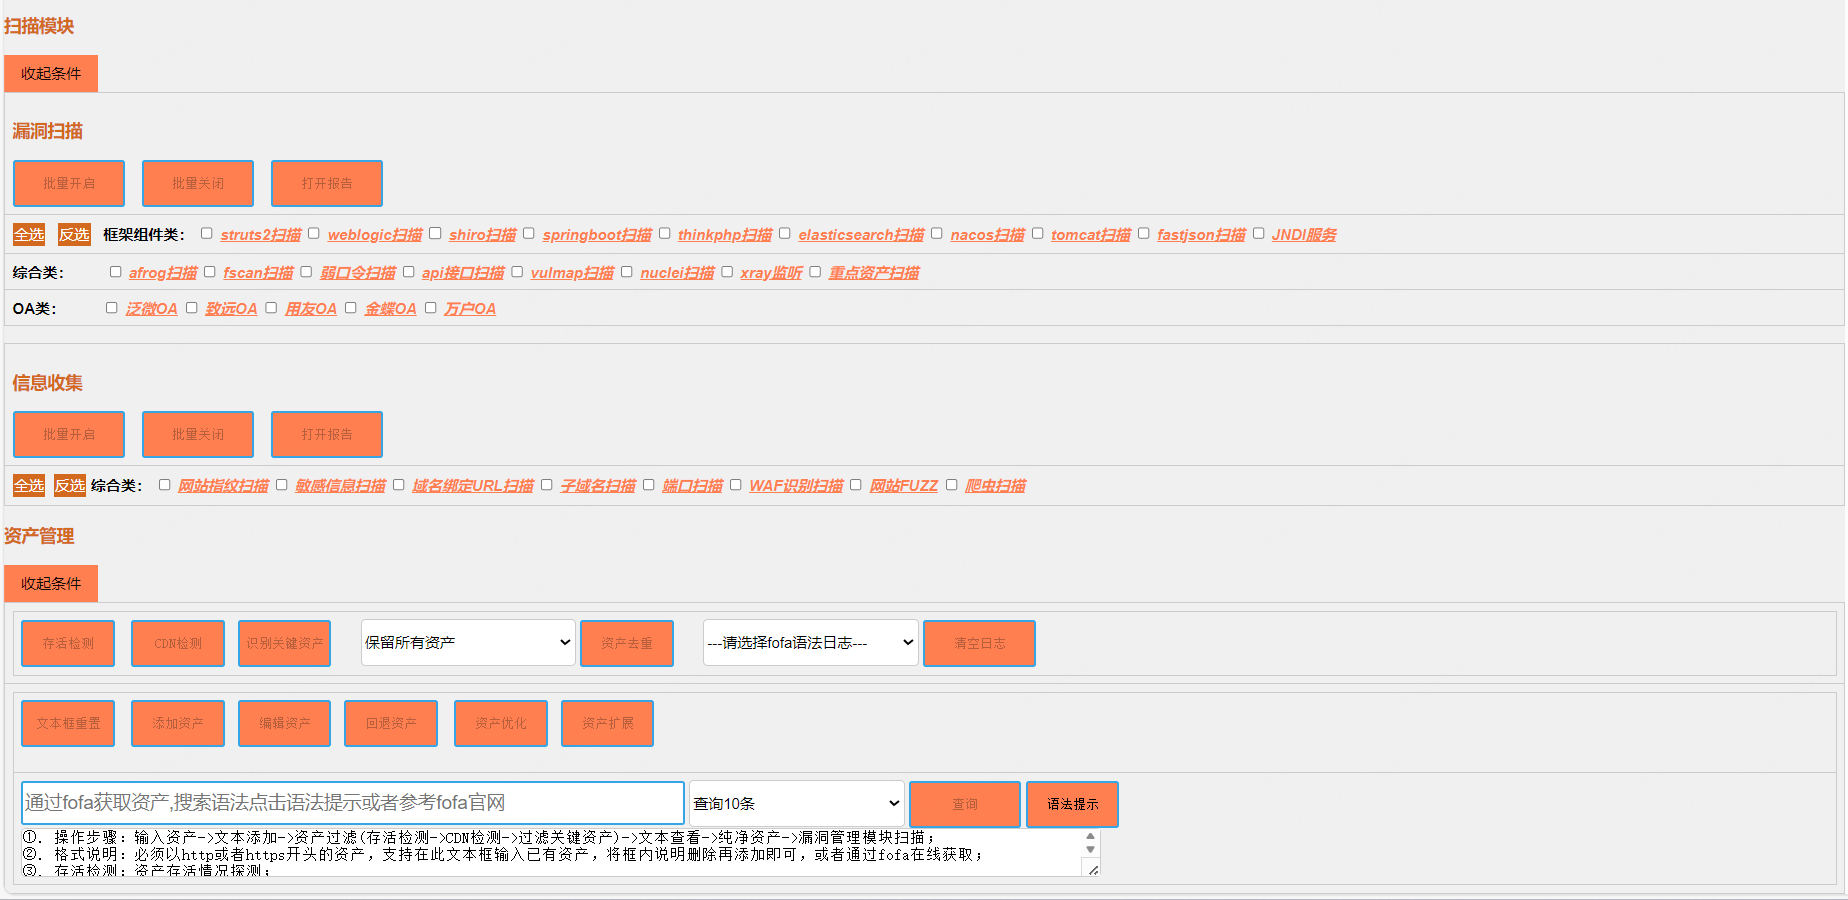
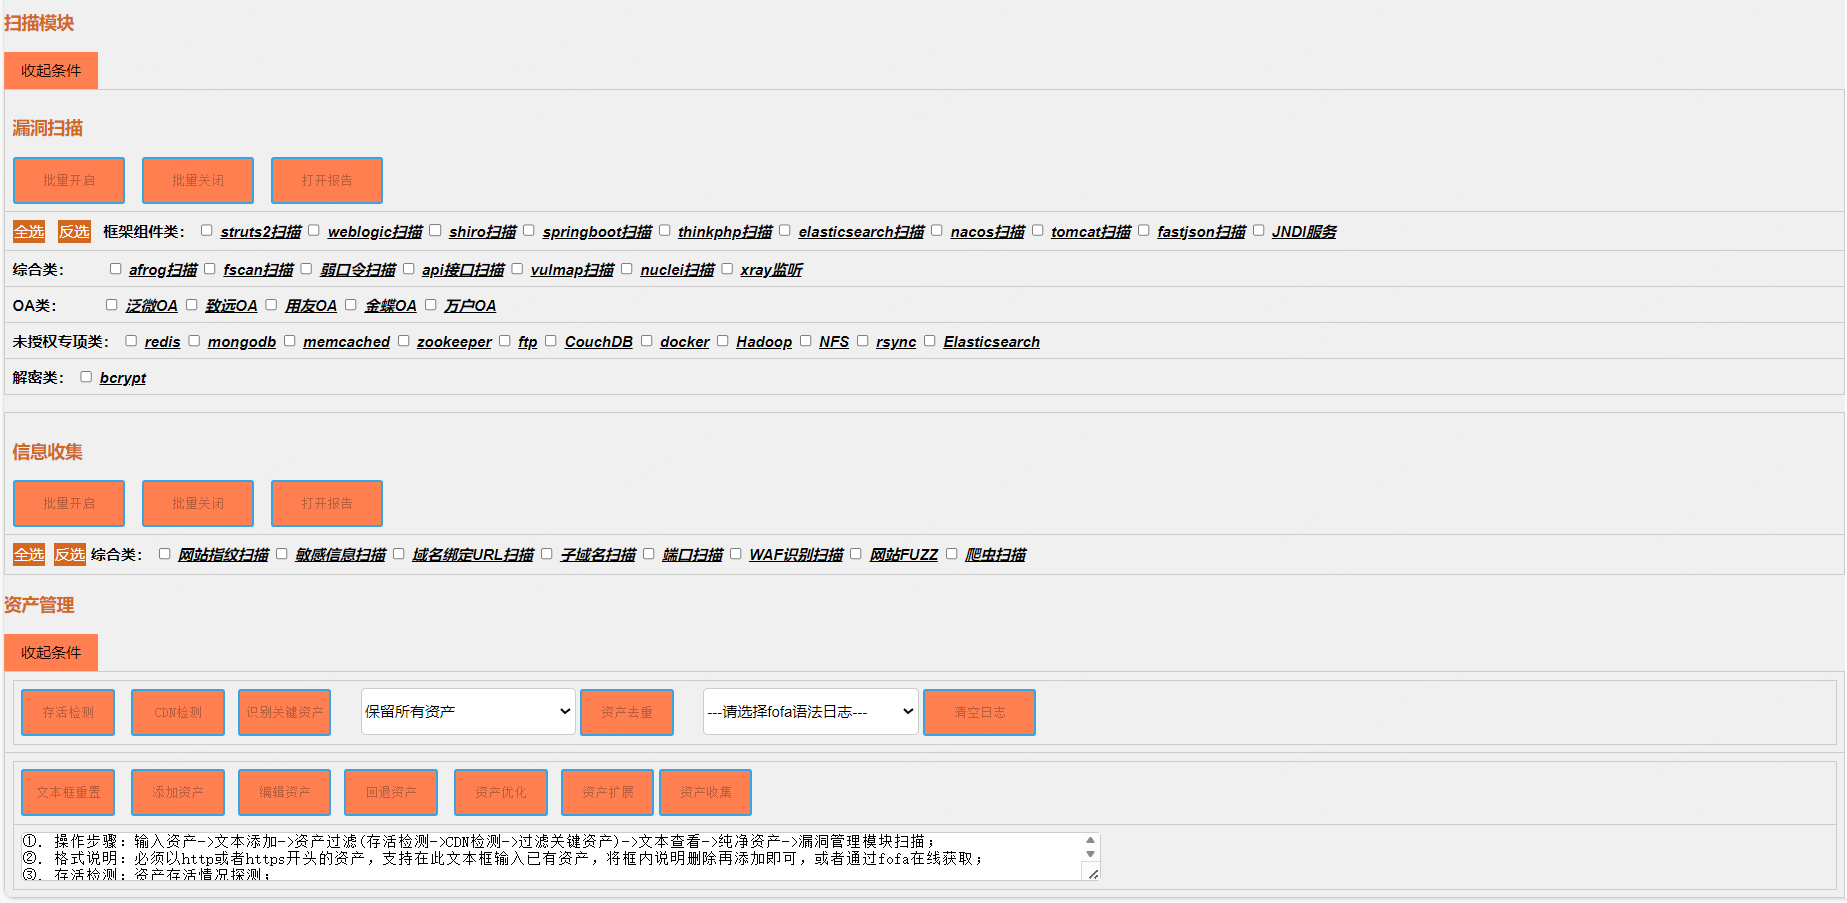
系统优化

diff --git a/templates/index.html b/templates/index.html
@@ -391,40 +391,16 @@
 										&nbsp;&nbsp;
 										<input type="button" id="button26" value="资产优化" onclick="asssets_jiansuo()"
 											disabled>&nbsp;&nbsp;
-										<!-- <input type="button" id="button27" value="资产扩展" onclick="assets_extend_func()"
-											disabled> -->
 
 										<input type="button" id="button27" value="资产扩展" onclick="openassetjiancefunc()"
 											disabled>
+
+										<input type="button" value="资产收集" onclick="openassetcollectfunc()" id="button83"
+											disabled>
 									</td>
 								</tr>
-
-
 								<tr>
 									<td>
-										<input type="text" placeholder="通过fofa获取资产,搜索语法点击语法提示或者参考fofa官网"
-											id="inputfofaid" class="my-input-text" />
-										<select name="num_fofa">
-											<option value="10">查询10条</option>
-											<option value="100">查询100条</option>
-											<option value="1000">查询1000条</option>
-											<option value="10000">查询10000条</option>
-										</select>
-										<input type="submit" value="查询" onclick="fofa_search_assets_func()"
-											id="button83" disabled>
-
-										<input type="button" value="语法提示" onclick="fofayufa()">&nbsp;&nbsp;
-										<span id="routestatus1" style="color: greenyellow;"
-											onmouseenter="yincangtishifun()"></span>
-										<span id="routestatus2" style="color: red;"
-											onmouseenter="yincangtishifun()"></span>
-
-										<span id="routestatus3" style="color: lightblue;"></span>
-										<br>
-										<input type="text" placeholder="输入https://test.com/pic.png,计算icon_hash" id="hashurl"
-											class="my-input-text" />
-										<input type="submit" value="计算" onclick="fofahashfunc()">
-										<br>
 										<textarea id="myTextarea">
 ①. 操作步骤：输入资产->文本添加->资产过滤(存活检测->CDN检测->过滤关键资产)->文本查看->纯净资产->漏洞管理模块扫描；
 ②. 格式说明：必须以http或者https开头的资产，支持在此文本框输入已有资产，将框内说明删除再添加即可，或者通过fofa在线获取；

diff --git a/templates/tanchuang.html b/templates/tanchuang.html
@@ -102,6 +102,32 @@
     </div>
 </div>
 
+<!-- 资产收集 -->
+<div id="myModa10" class="modal8">
+    <!-- 弹窗内容 -->
+    <div class="modal-content8">
+        <span class="close8" onclick="closevulnscan9()">&times;</span>
+        <h3>通过fofa收集资产：</h3>
+        <input type="text" placeholder="fofa语法" id="inputfofaid" class="my-input-text2" />
+        <select name="num_fofa" class="my-select-text2">
+            <option value="10">查询10条</option>
+            <option value="100">查询100条</option>
+            <option value="1000">查询1000条</option>
+            <option value="10000">查询10000条</option>
+        </select>
+        <input type="submit" value="查询" onclick="fofa_search_assets_func()">
+
+        <input type="button" value="语法提示" onclick="fofayufa()">&nbsp;&nbsp;
+        <span id="routestatus1" style="color:lawngreen" onmouseenter="yincangtishifun()"></span>
+        <span id="routestatus2" style="color: red;" onmouseenter="yincangtishifun()"></span>
+
+        <span id="routestatus3" style="color: lightblue;"></span>
+        <br>
+        <input type="text" placeholder="网站图标地址" id="hashurl" class="my-input-text2" />
+        <input type="submit" value="计算" onclick="fofahashfunc()">
+    </div>
+</div>
+
 
 
 <!-- 删除日志确认页面 -->

diff --git a/static/js/common.js b/static/js/common.js
@@ -2217,6 +2217,17 @@ function closevulnscan8() {
 
 }
 
+// 打开资产收集弹窗
+function openassetcollectfunc() {
+    var myModa10 = document.getElementById("myModa10");
+    myModa10.style.display = "block";
+}
+function closevulnscan9() {
+    var myModa10 = document.getElementById("myModa10");
+    myModa10.style.display = "none";
+
+}
+
 // 通过关键字检索资产
 function assets_key_jiansuo() {
     var myinputid = document.getElementById("my-input-id").value;
@@ -2411,8 +2422,8 @@ function stopgendictreportfunc() {
 
 
 // 网站导航模块
- // 谷歌语法
- function GoogledisplayText() {
+// 谷歌语法
+function GoogledisplayText() {
     // 获取输入框的值
     var GoogleinputText = document.getElementById('GoogleinputText');
     // 获取显示的值

diff --git a/static/css/common.css b/static/css/common.css
@@ -62,6 +62,15 @@
 			width: 300px;
 			font-size: 20px;
 		}
+		.my-input-text2 {
+			height: 40px;
+			width: 250px;
+			font-size: 20px;
+		}
+		.my-select-text2 {
+			height: 40px;
+			width: 100px;
+		}
 
 
 		input[type="submit"]:hover {
@@ -440,7 +449,7 @@
 		}
 
 		.my-label {
-			color: coral;
+			color:#000;
 			font-weight: bold;
 			text-decoration: underline;
 			font-style: italic;
